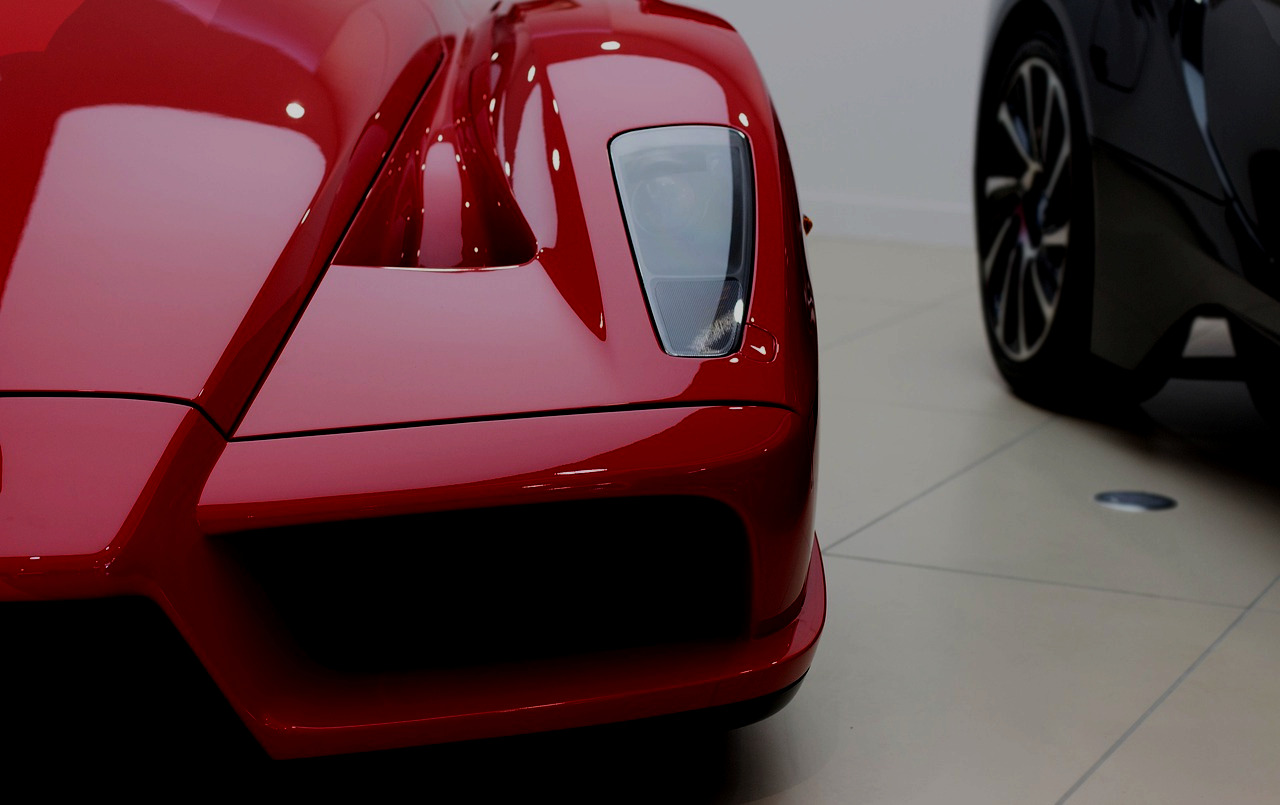
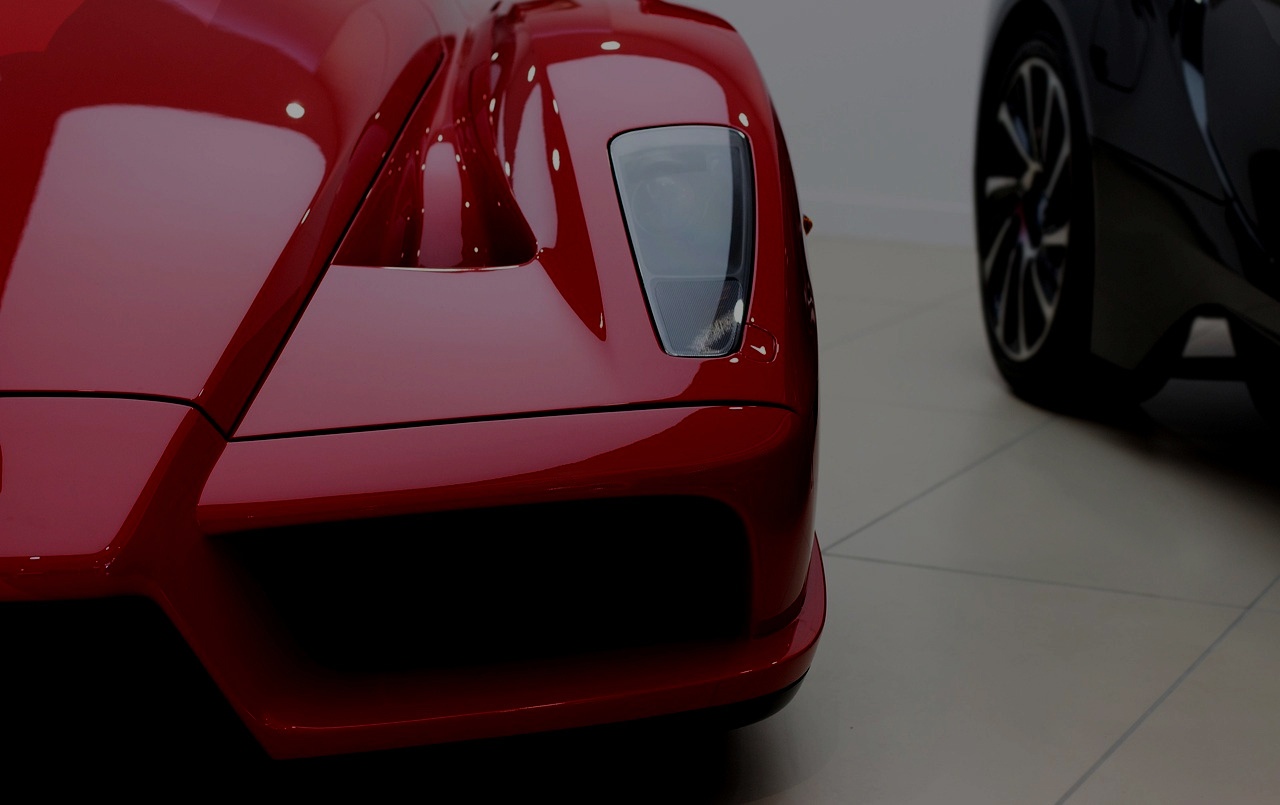
Fixed size of nav-bar. Retouched main background photo. Fixed padding problems in h sections

diff --git a/style.scss b/style.scss
@@ -12,7 +12,7 @@ $black: #171717;
 $white: #E8E8E8;
 $marker: yellow;
 $hover-black: #222222;
-$inprogress: #555;
+$dark: #000;
 $font-stack: Open Sans, Arial, Sans Serif;
 
 /* Beginning of global classes */
@@ -31,12 +31,16 @@ $font-stack: Open Sans, Arial, Sans Serif;
 } //used to create parallax bg
 
 i {
-  margin: 0 15px 0 0;
+  margin-right: 15px;
   color: $white;
-}
+} // adding auto margin to awesome icons
 
 .marker {
   color: $marker;
+} // class for exposing important words
+
+h1, h2, h3, h4, h5 {
+  color: $white;
 }
 
 /* End of global classes */
@@ -53,32 +57,33 @@ header {
   background-size: cover;
   width: 100%;
   margin: 0 auto;
-  position: relative;
-}
 
-h1 { // Title in header section
-  font-weight: 400;
-  color: $white;
-  font-size: 30px;
-  text-align: center;
-}
+  h1 { // Main title
+    font-weight: bolder;
+    font-size: 37px;
+    text-align: center;
+    padding: 70px 0 0;
+    text-shadow: -2px -2px 0 #444, 2px -2px 0 #444, -2px 2px 0 #444, 2px 2px 0 #444;
+  }
 
-h2 { // Subtitle in header section
-  font-weight: bolder;
-  color: $white;
-  font-size: 60px;
-  text-align: center;
-  padding: 100px 0 10px;
-}
+  h2 { // Subtitle
+    font-weight: 400;
+    font-size: 27px;
+    text-align: center;
+  }
 
-h4 { // Short description of page in header section
-  font-size: 20px;
-  color: $white;
-  font-style: italic;
-  padding-top: 50px;
-  text-align: center;
-}
+  h3 { // Slogan
+    font-size: 18px;
+    font-style: italic;
+    font-weight: normal;
+    padding-top: 50px;
+    text-align: center;
+  }
+  h3:last-of-type {
+    padding-top: 20px;
+  }
 
+}
 /* End of header and title section */
 
 /* Beginning of navigation section */
@@ -86,8 +91,11 @@ h4 { // Short description of page in header section
 .logo { // logo
   position: absolute;
   top: -5px; left: 15px;
-  font-size: 60px;
-  color: $white;
+  background-color: $dark;
+  height: 120px;
+  display: flex;
+  align-items: center;
+  padding: 0 10px;
 }
 
 .logo i:hover {
@@ -97,20 +105,17 @@ h4 { // Short description of page in header section
 
 nav {
   position: relative;
-  height: 90px;
+  height: 50px;
   width: 100%;
-  max-width: 1200px;
-  background-color: $black;
   z-index: 1;
 }
 
 .menu
 {
   position: fixed;
-  height: 90px;
+  height: 50px;
   background-color: $black;
   width: 100%;
-  max-width: 1200px;
   display: flex;
   align-items: center;
   justify-content: flex-end;
@@ -139,16 +144,6 @@ nav li:hover {
     text-decoration: none;
     color:inherit;
   }
-}
-
-nav li.in-progress {
-  color: $inprogress;
-  cursor: none;
-}
-
-.menu-short-collapse span.menu-short-list a.in-progress {
-  color: $inprogress;
-  cursor: none;
 }
 
 .menu ul {
@@ -194,7 +189,7 @@ input.chkbox-menu {
 .menu-short-collapse {
   position: fixed;
   right: -160px;
-  top: 89px;
+  top: 49px;
   width: 160px;
   color: $white;
   background-color: $black;
@@ -480,15 +475,21 @@ h3 {
       .menu-short {
         display: none;
       }
-      h1 {
-        font-size:50px;
-      }
-      h2 {
-        font-size: 70px;
-      }
-      h4 {
-        font-size: 25px;
-      }
+
+      header {
+
+        h1 { // Main title
+          font-size: 60px;
+        }
+
+        h2 { // Subtitle
+          font-size: 36px;
+        }
+
+        h3 { // Slogan
+          font-size: 20px;
+        }
+    }
     }
 @media (max-width: 768px) {
   .contact-form .form-group {

diff --git a/style.css b/style.css
@@ -19,11 +19,14 @@ Very small devices <576px
   background-size: cover; }
 
 i {
-  margin: 0 15px 0 0;
+  margin-right: 15px;
   color: #E8E8E8; }
 
 .marker {
   color: yellow; }
+
+h1, h2, h3, h4, h5 {
+  color: #E8E8E8; }
 
 /* End of global classes */
 body {
@@ -35,28 +38,25 @@ header {
   background: url("images/header_background_car.jpg") no-repeat center;
   background-size: cover;
   width: 100%;
-  margin: 0 auto;
-  position: relative; }
-
-h1 {
-  font-weight: 400;
-  color: #E8E8E8;
-  font-size: 30px;
-  text-align: center; }
-
-h2 {
-  font-weight: bolder;
-  color: #E8E8E8;
-  font-size: 60px;
-  text-align: center;
-  padding: 100px 0 10px; }
-
-h4 {
-  font-size: 20px;
-  color: #E8E8E8;
-  font-style: italic;
-  padding-top: 50px;
-  text-align: center; }
+  margin: 0 auto; }
+  header h1 {
+    font-weight: bolder;
+    font-size: 37px;
+    text-align: center;
+    padding: 70px 0 0;
+    text-shadow: -2px -2px 0 #444, 2px -2px 0 #444, -2px 2px 0 #444, 2px 2px 0 #444; }
+  header h2 {
+    font-weight: 400;
+    font-size: 27px;
+    text-align: center; }
+  header h3 {
+    font-size: 18px;
+    font-style: italic;
+    font-weight: normal;
+    padding-top: 50px;
+    text-align: center; }
+  header h3:last-of-type {
+    padding-top: 20px; }
 
 /* End of header and title section */
 /* Beginning of navigation section */
@@ -64,8 +64,11 @@ h4 {
   position: absolute;
   top: -5px;
   left: 15px;
-  font-size: 60px;
-  color: #E8E8E8; }
+  background-color: #000;
+  height: 120px;
+  display: flex;
+  align-items: center;
+  padding: 0 10px; }
 
 .logo i:hover {
   color: #8C0000;
@@ -73,18 +76,15 @@ h4 {
 
 nav {
   position: relative;
-  height: 90px;
+  height: 50px;
   width: 100%;
-  max-width: 1200px;
-  background-color: #171717;
   z-index: 1; }
 
 .menu {
   position: fixed;
-  height: 90px;
+  height: 50px;
   background-color: #171717;
   width: 100%;
-  max-width: 1200px;
   display: flex;
   align-items: center;
   justify-content: flex-end; }
@@ -108,14 +108,6 @@ nav li:hover {
   nav li:hover a {
     text-decoration: none;
     color: inherit; }
-
-nav li.in-progress {
-  color: #555;
-  cursor: none; }
-
-.menu-short-collapse span.menu-short-list a.in-progress {
-  color: #555;
-  cursor: none; }
 
 .menu ul {
   display: none; }
@@ -158,7 +150,7 @@ input.chkbox-menu {
 .menu-short-collapse {
   position: fixed;
   right: -160px;
-  top: 89px;
+  top: 49px;
   width: 160px;
   color: #E8E8E8;
   background-color: #171717;
@@ -390,14 +382,12 @@ h3 {
   .menu-short {
     display: none; }
 
-  h1 {
-    font-size: 50px; }
-
-  h2 {
-    font-size: 70px; }
-
-  h4 {
-    font-size: 25px; } }
+  header h1 {
+    font-size: 60px; }
+  header h2 {
+    font-size: 36px; }
+  header h3 {
+    font-size: 20px; } }
 @media (max-width: 768px) {
   .contact-form .form-group {
     width: 100%;

diff --git a/index.html b/index.html
@@ -40,12 +40,11 @@
             </div>
         </div>
     </nav>
-
-    <h2>WYSZUKIWARKA</h2>
-    <h1>CZĘŚCI SAMOCHODOWYCH</h1>
-    <h4>Pomożemy Ci znaleźć <a class="marker">każdą</a> część do Twojego samochodu,<br/>a jako <a class="marker">BONUS</a> wskażemy Ci najbliższy
-    warsztat!</h4>
-    <h4>Startujemy już wkrótce!</h4>
+    <h1>WYSZUKIWARKA</h1>
+    <h2>CZĘŚCI SAMOCHODOWYCH</h2>
+    <h3>Pomożemy Ci znaleźć <a class="marker">każdą</a> część do Twojego samochodu,<br/>a jako <a class="marker">BONUS</a> wskażemy Ci najbliższy
+    warsztat!</h3>
+    <h3>Startujemy już wkrótce!</h3>
 
     <div class="startup-sign-in-short-pos">
         <div class="startup-sign-in-short button"><a href="#startup-sign-in">
